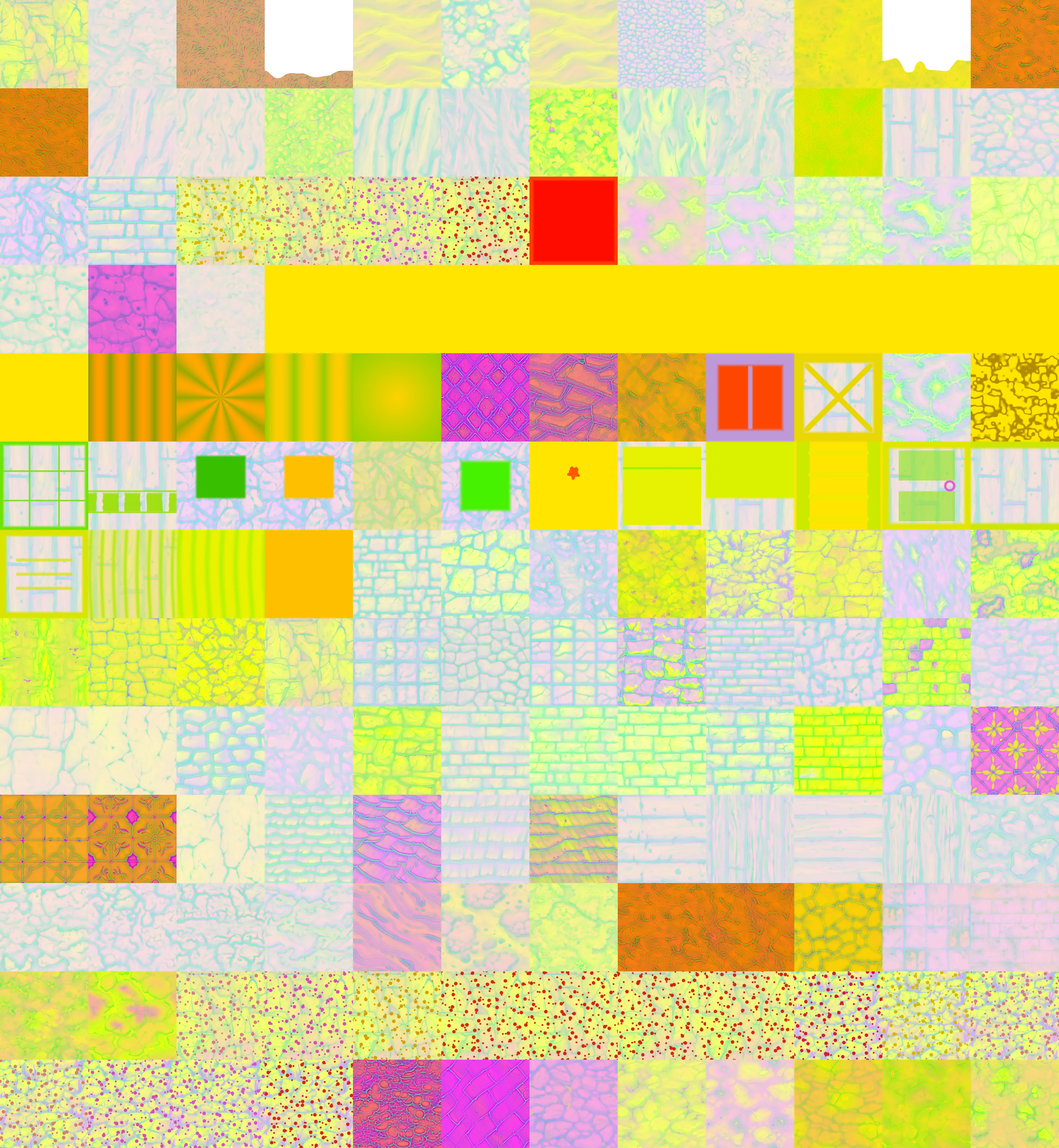
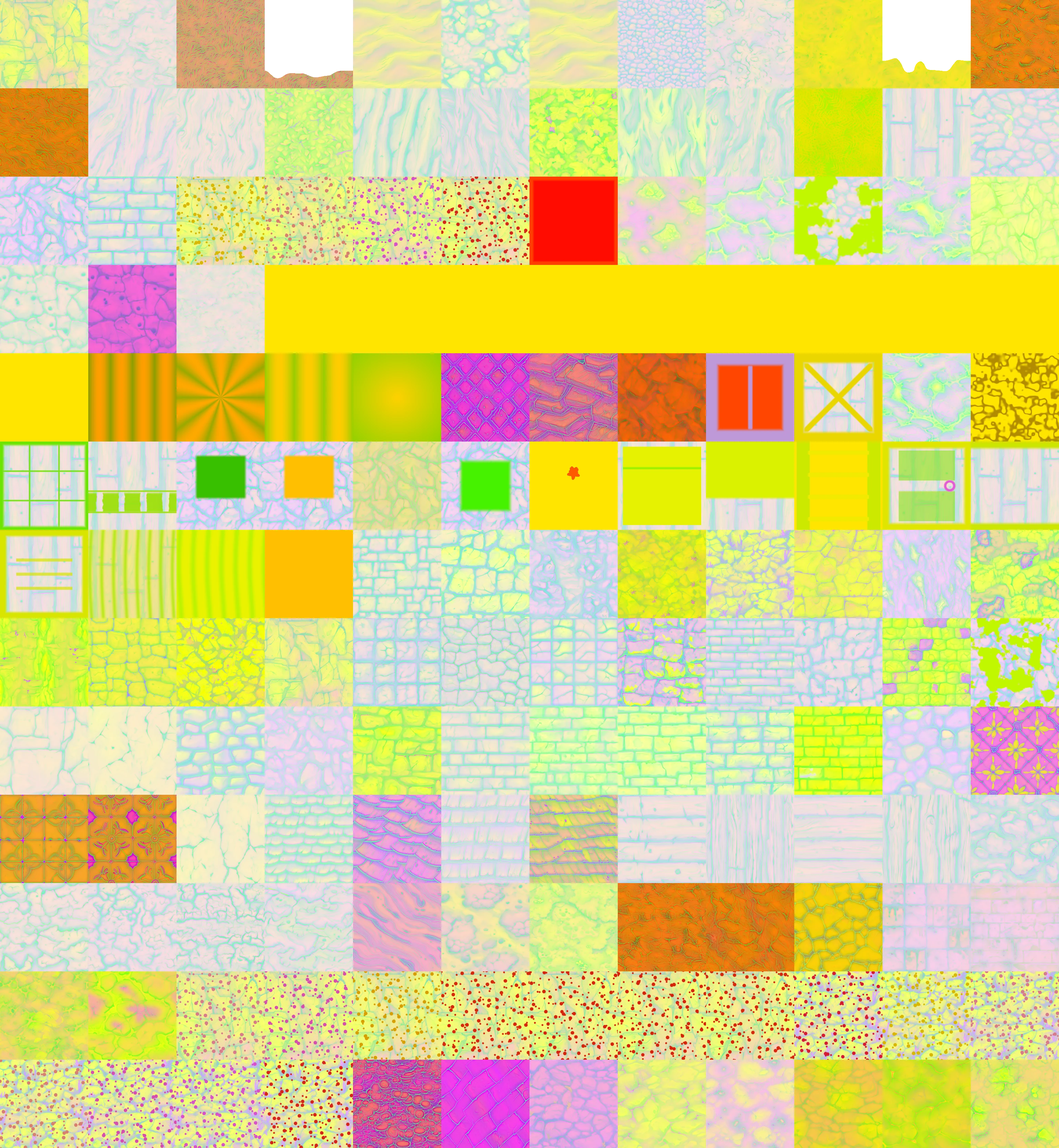
Grow the moss on the rock it belongs to.
moss_stone and mossy_stone_brick were baked from mossy source materials and
came out at 73,76,67 and 75,72,68 — half the luminance of the blocks they are
a variant of, and within three counts of each other on every channel, so a
mossy cobble and a mossy brick were the same near-black square. Exposure could
not have fixed it: Stone Wall/5 is a rubble wall despite living in the brick
folder, so neither source was ever going to read as cut stone.

Both are now procedural moss composited over their own parent tile, which
makes the rock correct by construction and stops the pair drifting again. What
separates them is the masonry underneath plus how much moss it holds: rubble
traps water and carries broad sheets, a cut face sheds and keeps small
scattered colonies in a paler grey-green.

Carries the regenerated atlases for all four palette fixes in this run: the
wood ladder, the crystal block, the birch canopy and this. Baked colours -
log_pine 194,142,90 to 132,102,68; log_birch 174,136,94 to 180,161,139;
planks_pine 89,57,39 to 160,107,79; planks_birch 120,77,52 to 187,148,125;
crystal_block 161,218,230 to 104,199,235 against ice's unchanged 169,218,240;
leaves_birch 124,169,130 to 141,173,101; moss_stone 73,76,67 to 107,122,83
against cobblestone's 131,124,114; mossy_stone_brick 75,72,68 to 132,129,105
against stone_brick's 153,134,128.

Claude-Session: https://claude.ai/code/session_01RLLAmuXJK1RFtqMSouLPDf

Changed region(s): [[0.5625, 0.2812, 0.6875, 0.4062], [0.9062, 0.5312, 1.0, 0.625], [0.75, 0.1562, 0.8438, 0.25]]

diff --git a/src/render/TextureGen.js b/src/render/TextureGen.js
@@ -487,6 +487,85 @@ for (const [name, [lo, hi, metal, seed, rough]] of Object.entries(ORE_MINERALS))
   G[name] = (s) => ore(s, [px(lo), px(hi)], metal, seed, rough);
 }
 
+/**
+ * Moss growing over a masonry base — written as a DECAL, so the rock it grows
+ * on is literally the parent block's own tile (see DECALS in bake-textures.mjs).
+ *
+ * Both mossy blocks used to be baked from mossy source materials in the pack:
+ * moss_stone from Wall_with_plants/1 and mossy_stone_brick from Stone Wall/5.
+ * That is the wrong shape for these two, and it failed twice over.
+ *
+ * They came out at 73,76,67 and 75,72,68 — half the luminance of the blocks
+ * they are a variant OF (cobblestone 131,124,114, stone_brick 153,134,128) and
+ * within three counts of each other on every channel, so a mossy cobble and a
+ * mossy brick were the same near-black square. The pack has no lit mossy
+ * masonry, and exposure alone could not fix it: both sources are ALSO rubble
+ * walls, so no amount of brightening was going to make one of them read as cut
+ * brick. Stone Wall/5 in particular is a rubble wall despite living in the
+ * brick folder — that is the whole reason the two tiles shared a look.
+ *
+ * As a decal the rock is free and correct by construction: mossy cobble is
+ * cobblestone with moss on it, mossy brick is stone_brick with moss on it, and
+ * they can never drift from their parents again. What separates them is then
+ * exactly what separates them in life — the masonry underneath, plus how much
+ * moss it holds. Rubble traps water in its gaps and carries broad sheets of it;
+ * a cut face sheds, so brick keeps small scattered colonies and most of the
+ * stone still shows.
+ *
+ * The threshold is a quantile of the patch field rather than a fixed value, for
+ * the same reason `leaves_pine` uses one: coverage then survives the 128px
+ * runtime tile and the 256px baked tile being different rasterisations of the
+ * same noise.
+ */
+function moss(s, { seed, coverage, cells, dark, lite }) {
+  clearAlpha(s);
+  const patch = fbm(s.size, cells, 4, seed);
+  const fuzz = fbm(s.size, 34, 3, seed + 7);
+  const sorted = Float32Array.from(patch).sort();
+  const cut = sorted[Math.floor(sorted.length * (1 - coverage))];
+  const span = Math.max(1e-4, sorted[sorted.length - 1] - cut);
+  s.each((i) => {
+    // Feathered over the top fifth of the patch's own range. A hard cut gives
+    // moss a coastline — a smooth closed curve with stone on one side of it,
+    // which reads as spilled paint; real moss fades out into the stone at its
+    // margins and that fade is most of what makes it read as growth.
+    const m = smoothstep(0, 0.22, (patch[i] - cut) / span);
+    if (m <= 0.004) return;
+    setRGB(s, i, mixc(px(dark), px(lite), fuzz[i] * 0.72 + m * 0.28));
+    s.a[i] = m;
+    s.h[i] = 0.58 + fuzz[i] * 0.34;     // moss stands proud of the stone
+    s.ao[i] = 0.88 - m * 0.12;
+    s.rough[i] = 0.97;                  // nothing about moss is shiny
+  });
+  s.normalStrength = 1.1;
+  return s;
+}
+// Broad wet sheets in the gaps of the rubble. The green is the saturated one of
+// the pair: this is the block that has to read as MOSSY at a glance, since its
+// parent cobblestone is otherwise the commonest grey in the game.
+G.moss_stone = (s) => moss(s, {
+  seed: 1901, coverage: 0.62, cells: 5,
+  dark: [44, 74, 32], lite: [112, 152, 70],
+});
+// Small dry colonies on a shedding face, in a paler grey-green — closer to
+// lichen than to moss, which is what actually grows on cut stone. `cells` is
+// what carries that: at 8 the patches are half the width of the rubble's, so
+// the brick courses stay the pattern you read first and the moss is scattered
+// over them rather than sheeting across them.
+//
+// Coverage was 0.30 on the reasoning that a cut face sheds and should keep most
+// of its stone. Baked, that landed the tile at 142,132,117 — twenty-one counts
+// under stone_brick and with LESS green in it than red, which is not a mossy
+// block, it is a slightly dirty one. The base matters: stone_brick is a pale
+// warm 153,134,128, so a third of a grey-green over it still averages out warm.
+// A mossy variant has to be legible as mossy from across a room, and the way to
+// keep it apart from moss_stone is the pale palette and the small patch scale,
+// not starving it of coverage.
+G.mossy_stone_brick = (s) => moss(s, {
+  seed: 1913, coverage: 0.48, cells: 8,
+  dark: [58, 80, 42], lite: [122, 146, 84],
+});
+
 G.glass = (s) => {
   const f = fbm(s.size, 12, 3, 541);
   s.each((i, x, y, u, v) => {
